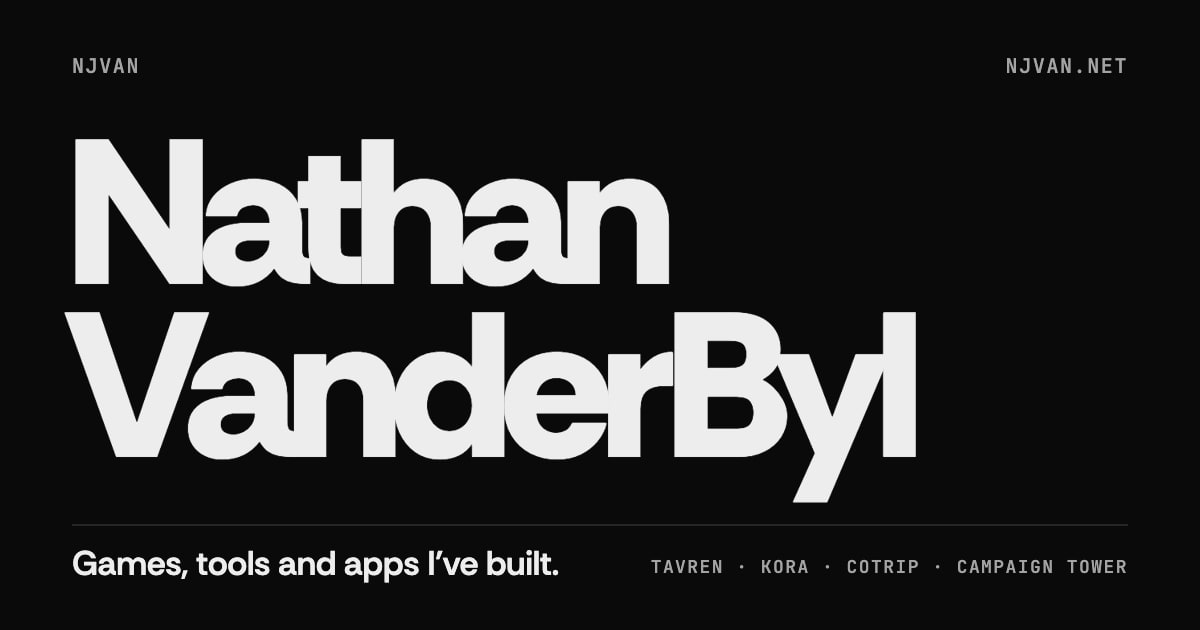
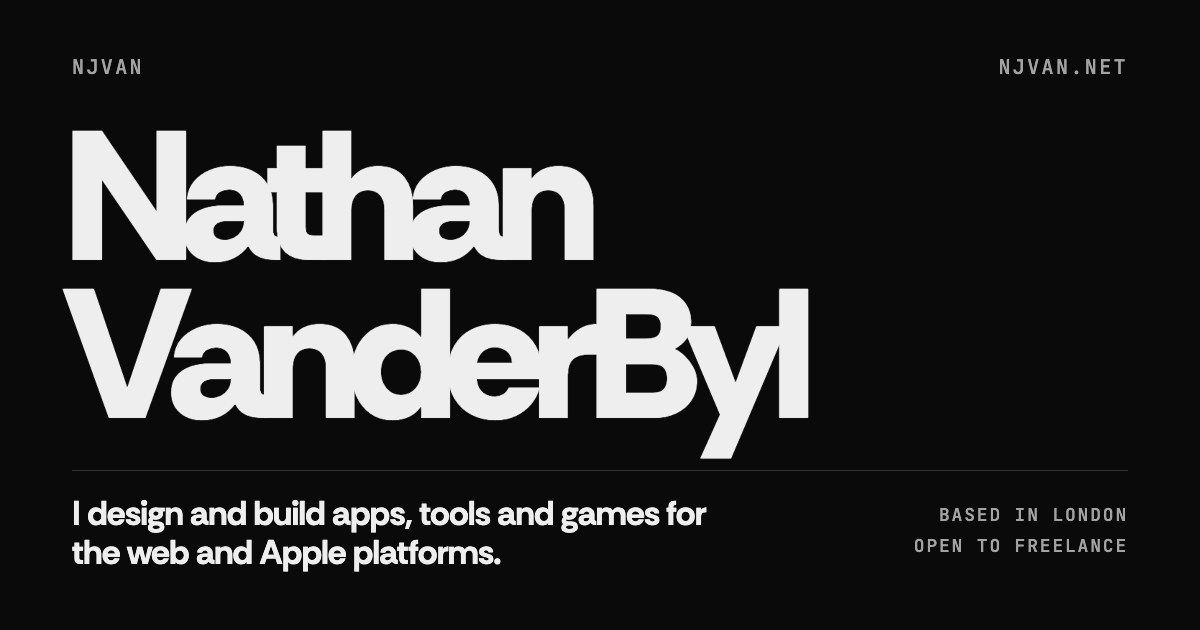
Hero: say what I do, where I am, and how to reach me
Subheading: I design and build apps, tools and games for the web and Apple
platforms. Below it: Based in London, open to select freelance projects, with a
Get in touch mail link (moved up from the footer). Title, description, share
image and structured data follow.

diff --git a/tests/home.spec.ts b/tests/home.spec.ts
@@ -19,6 +19,15 @@ test.describe('home page', () => {
     watch.expectNone();
   });
 
+  test('the hero says what I do, where I am, and how to get in touch', async ({ page }) => {
+    await page.goto('/');
+    await expect(page.locator('.hero__sub')).toHaveText('I design and build apps, tools and games for the web and Apple platforms.');
+    const avail = page.locator('.hero__avail');
+    await expect(avail).toContainText('Based in London');
+    await expect(avail).toContainText('Open to select freelance projects');
+    await expect(avail.getByRole('link', { name: 'Get in touch' })).toHaveAttribute('href', /^mailto:njvanderbyl@gmail\.com/);
+  });
+
   for (const p of projects) {
     test(`opens and closes ${p.name}`, async ({ page }) => {
       const watch = watchErrors(page);

diff --git a/src/lib/motion.ts b/src/lib/motion.ts
@@ -67,7 +67,7 @@ export const HERO = {
   /** The subhead starts speaking. */
   speakDelay: 1.05,
   /** Subhead words that arrive letter by letter. */
-  speakEmphasis: ['built'],
+  speakEmphasis: ['build'],
   /** The particle button starts assembling (speak start + 0.2s). */
   buttonDelay: 1.25,
   /** Supporting items (nav, meta row) rise after the letters start landing. */

diff --git a/CLAUDE.md b/CLAUDE.md
@@ -17,7 +17,7 @@ The live versions are on claude.ai: the njvan design system (https://claude.ai/a
 
 ## Decisions already made
 
-- **Hero:** "Nathan VanderByl" on two lines at poster size, no label above it, subheading "Games, tools and apps I've built.", one solid "See the projects" button. The header wordmark reads "njvan".
+- **Hero:** "Nathan VanderByl" on two lines at poster size, no label above it, subheading "I design and build apps, tools and games for the web and Apple platforms.", then "Based in London · Open to select freelance projects · Get in touch" (a mailto link; moved up from the footer), one solid "See the projects" button. The header wordmark reads "njvan".
 - **No GitHub links anywhere.** The repos are private.
 - **Contact:** njvanderbyl@gmail.com and LinkedIn in the footer.
 - **Accents:** Tavren #FFD34D, Kora #5B4BE0 / #8B7CFF dark, Cotrip #F95C30 (coral, not its brand violet), Campaign Tower #3FBF5F. One accent on screen at a time.
